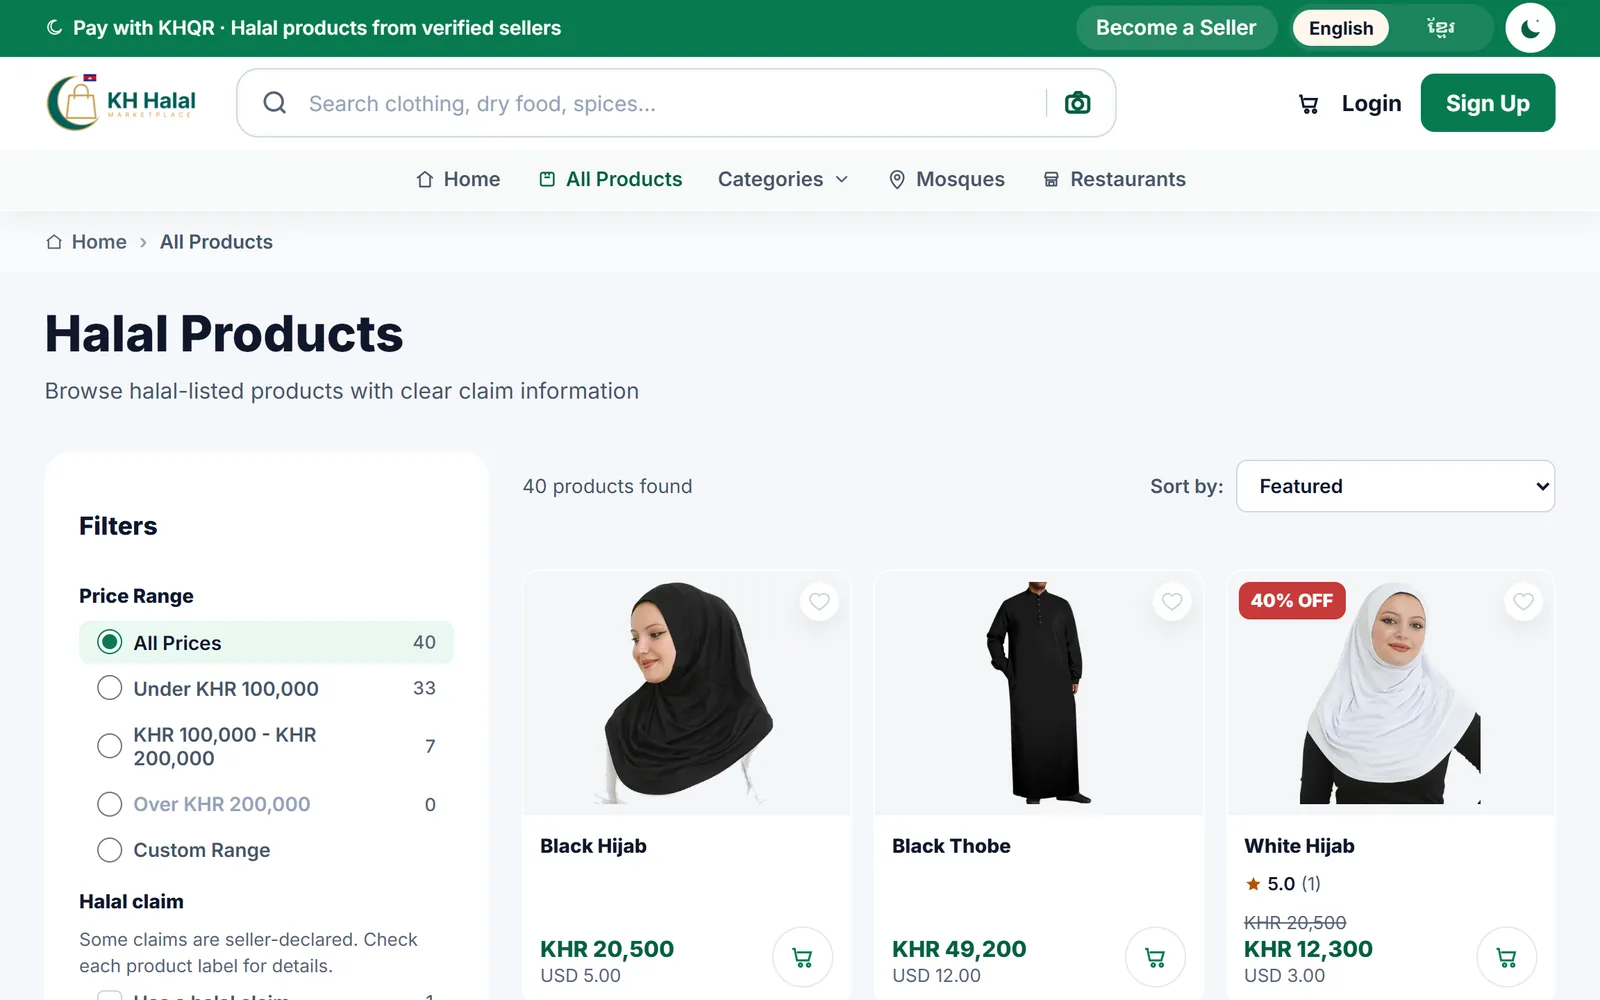
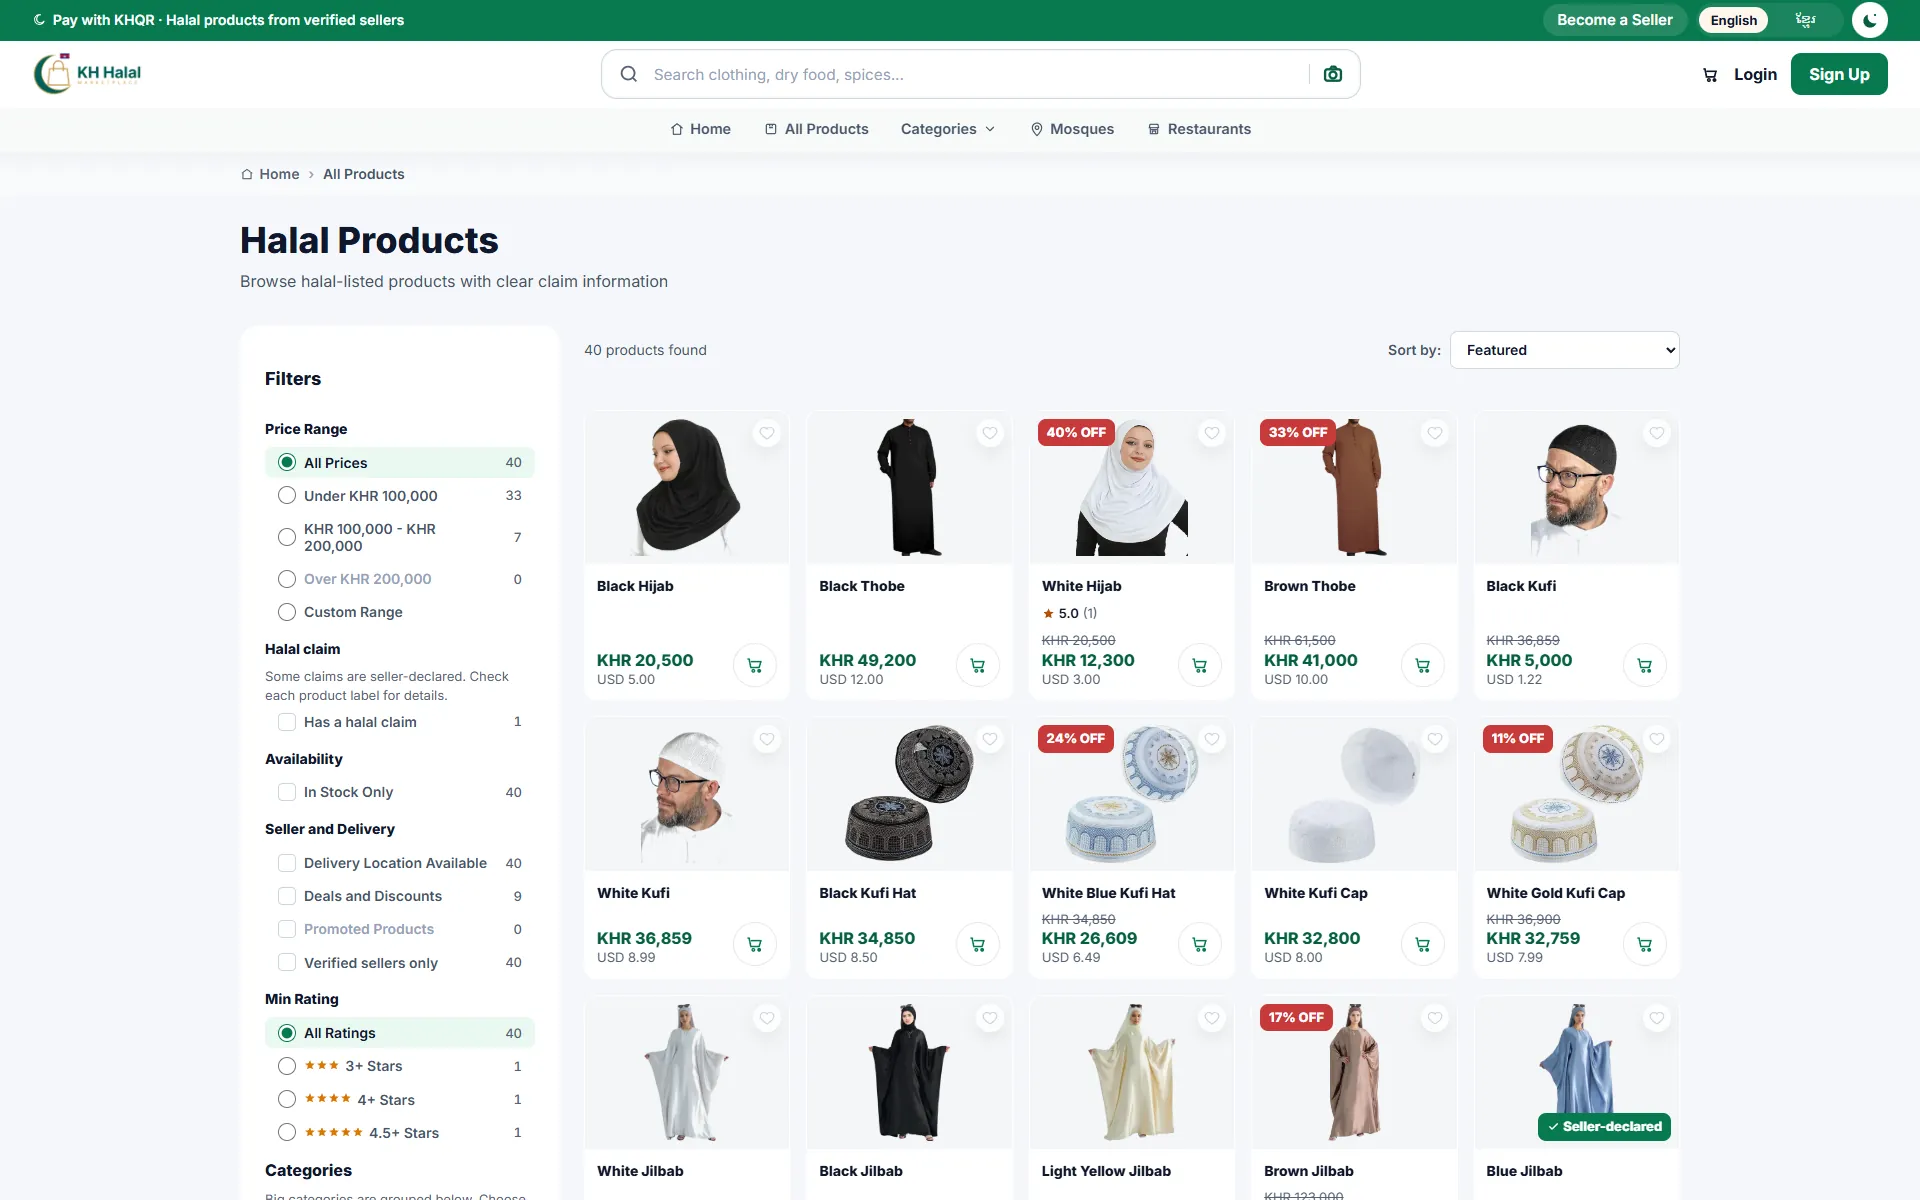
KH Halal card: real desktop-size screens that auto-play, no monitor drawing

diff --git a/index.html b/index.html
@@ -174,21 +174,21 @@
 
         <!-- PROJECT 1 (FEATURED, full width): KH Halal Marketplace — web app -->
         <article class="project-card project-card--featured reveal" id="kh-halal" aria-labelledby="p1-title">
-          <!-- One desktop monitor, 3 whole screens (1600×1000). initMonitor (js/main.js) shows each once, then stops on the first;
-               the buttons switch screens; "Full size" opens the one showing. Without JS: the first screen, and the link opens it.
-               Add a screen: one more <img> (aria-hidden="true") + one more button with the next data-screen number. -->
+          <!-- 3 whole desktop screens (1920×1200), one at a time. initDeck (js/main.js) changes the screen every 3s while it is on
+               screen (pauses on hover/focus); a screen button stops it. "Full size" opens the one showing. Without JS: the first
+               screen, and the link opens it. Add a screen: one more <img> (aria-hidden="true") + one more button (next data-screen). -->
           <div class="project-card__shots">
-            <figure class="monitor">
+            <figure class="deck">
               <a class="project-card__media project-card__media--web shot-link" href="assets/images/kh-halal-marketplace.webp">
                 <img class="is-on" src="assets/images/kh-halal-marketplace.webp"
-                     alt="KH Halal Marketplace home page: search with photo search, Halal Clothing and Dry Food banner, and links to shop or find a mosque"
-                     width="1600" height="1000" loading="lazy" decoding="async">
+                     alt="KH Halal Marketplace home page: search with photo search, Halal Clothing and Dry Food banner, and featured products with prices in riel and US dollars"
+                     width="1920" height="1200" loading="lazy" decoding="async">
                 <img aria-hidden="true" src="assets/images/kh-halal-product.webp"
                      alt="KH Halal product page: Black Hijab, price in riel and US dollars, the identity-verified seller, and Add to Cart"
-                     width="1600" height="1000" loading="lazy" decoding="async">
+                     width="1920" height="1200" loading="lazy" decoding="async">
                 <img aria-hidden="true" src="assets/images/kh-halal-products.webp"
                      alt="KH Halal All Products page: filters by price and halal claim, and product cards with prices in riel and US dollars"
-                     width="1600" height="1000" loading="lazy" decoding="async">
+                     width="1920" height="1200" loading="lazy" decoding="async">
               </a>
               <div class="screens" role="group" aria-label="KH Halal screens">
                 <button type="button" data-screen="0" aria-pressed="true">Home</button>

diff --git a/js/main.js b/js/main.js
@@ -183,10 +183,10 @@
 
   // Phone cards: each phone fades to its data-next screen and back, once, only while on screen.
   // Under 5s in all (WCAG 2.2.2), then stops. Hover or keyboard focus pauses it
-  // Desktop monitor: Home -> Product -> All products -> Home once (1.6s steps, under 5s: WCAG 2.2.2), then stop.
-  // Buttons pick a screen (and end the tour). Paused on hover/focus; never fades to a screen still loading.
-  function initMonitor() {
-    document.querySelectorAll('.monitor').forEach(function (mon) {
+  // Screen deck: next screen every 3s while it is on screen. Paused on hover/focus; never fades to a screen still
+  // loading. A screen button stops it for good (WCAG 2.2.2: a way to stop). Reduced motion: no auto change.
+  function initDeck() {
+    document.querySelectorAll('.deck').forEach(function (mon) {
       var link = mon.querySelector('.shot-link'), imgs = link.querySelectorAll('img');
       var btns = mon.querySelectorAll('[data-screen]'), step = 0, timer, io;
       function show(i) {
@@ -208,8 +208,7 @@
           var next = (step + 1) % imgs.length;
           if (mon.matches(':hover, :focus-within') || !imgs[next].naturalWidth) return;
           show(step = next);
-          if (!step) stop(); // back on the first screen: done
-        }, 1600);
+        }, 3000);
       }, { threshold: 0.5 });
       io.observe(link);
     });
@@ -362,7 +361,7 @@
     // Screenshot links: full size in the same pop-up (Ctrl/middle click still opens the file)
     function openShot(link, trigger) {
       var img = new Image();
-      img.src = link.href; // initMonitor points it at the screen showing
+      img.src = link.href; // initDeck points it at the screen showing
       img.alt = (link.querySelector('img.is-on') || link.querySelector('img')).alt;
       if (modalTitle) modalTitle.textContent = img.alt.split(':')[0];
       modal.classList.remove('video-modal--phone');
@@ -375,7 +374,7 @@
     document.addEventListener('click', function (e) {
       var btn = e.target.closest('.video-btn');
       if (btn) openVideo(btn);
-      var shot = e.target.closest('.shot-link, [data-shot]'); // [data-shot]: the "Full size" button under a monitor
+      var shot = e.target.closest('.shot-link, [data-shot]'); // [data-shot]: the "Full size" button under a deck
       if (shot && !e.ctrlKey && !e.metaKey && !e.shiftKey && !e.button) {
         e.preventDefault();
         openShot(shot.href ? shot : shot.closest('figure').querySelector('.shot-link'), shot);
@@ -526,7 +525,7 @@
   initReveal();
   initSpotlight();
   initPhoneScreens();
-  initMonitor();
+  initDeck();
   initCountUp();
   initCopy();
   initVideo();

diff --git a/css/style.css b/css/style.css
@@ -503,17 +503,13 @@ main { counter-reset: section; }
 /* Web screenshot frame */
 .project-card__shots { margin: var(--card-pad) var(--card-pad) 0; }
 a.project-card__media { display: block; cursor: zoom-in; }
-/* Desktop monitor: content-box keeps the screen 16:10 */
-.monitor { display: flex; flex-direction: column; --b: clamp(6px, 1vw, 10px); --st: color-mix(in srgb, var(--text) 20%, var(--surface)); }
-.monitor > a { box-sizing: content-box; border: var(--b) solid #0C0A09; border-bottom-width: calc(var(--b) * 2.4); box-shadow: 0 0 0 1px var(--st); } /* taste-skill-ignore */
-.monitor::after { content: ""; display: block; width: 26%; height: calc(var(--b) * 4); margin: 1px auto 0; background: linear-gradient(var(--st) 0 0) top / 34% 75% no-repeat, linear-gradient(var(--st) 0 0) bottom / 100% 25% no-repeat; border-radius: 0 0 4px 4px; } /* taste-skill-ignore: two flat blocks (neck, base), not a gradient */
-/* .is-on shows (initMonitor) */
-.monitor img + img { position: absolute; inset: 0; }
-.monitor img { opacity: 0; transition: opacity var(--dur-base) var(--ease-out), transform var(--dur-base) var(--ease-out); }
-.monitor .is-on { opacity: 1; }
+/* .is-on shows (initDeck) */
+.deck img + img { position: absolute; inset: 0; }
+.deck img { opacity: 0; transition: opacity var(--dur-base) var(--ease-out), transform var(--dur-base) var(--ease-out); }
+.deck .is-on { opacity: 1; }
 .shot-link:focus-visible { outline-offset: 4px; border-radius: var(--radius); }
 /* Screen buttons (JS) */
-.screens { order: 1; display: none; flex-wrap: wrap; justify-content: center; gap: 4px; margin-top: var(--s-3); }
+.screens { display: none; flex-wrap: wrap; justify-content: center; gap: 4px; margin-top: var(--s-3); }
 .js .screens { display: flex; }
 .screens button { display: inline-flex; align-items: center; gap: 6px; min-height: 44px; padding: 0 14px; border: 0; border-radius: 99px; background: none; color: var(--muted); font: 500 var(--fs-small) var(--font-sans); cursor: pointer; transition: color var(--dur-fast); }
 .screens button:hover, .screens [aria-pressed=true] { color: var(--text); }

diff --git a/CLAUDE.md b/CLAUDE.md
@@ -658,3 +658,11 @@ Honest review of the whole-screens version (7/10) listed 5 problems; all fixed:
 - Sizes: committed CSS 35,994 / 36,000 (working file 36,037 with the other session's uncommitted Contact work), JS 25,184 / 27,000.
 - Tests (headless Edge, CDP): tour 0 -> 1 at 1.63s -> 2 at 3.23s -> 0 at 4.86s, then no change (7.5s watched); aria-hidden / aria-pressed / href in step; button -> screen 2, stays after 3.5s; Full size opens the screen showing (1600x1000, right title), Esc closes, focus back on Full size; screen click opens the screen showing; hover 4s: no change, after leaving it moves on; reduced motion: no tour, buttons work; 390: buttons 44px, no sideways scroll; no JS: row hidden, opacities 1,0,0, link to Home; screen ratio 1.600 at 1440/1024/390; dark + light screenshots; no console errors; check.mjs all PASS; lint 0/0.
 - Committed with a separate index: the other session's uncommitted Contact edits in the same files are NOT in this commit.
+
+### Update 2026-11-13: KH Halal screens: real desktop size, auto-play loop, no monitor drawing (owner)
+- Owner: the screens should change by themselves, show the size of a real desktop, and lose the drawn monitor.
+- **Screens re-shot at 1920x1200** (16:10, 1x, live site, guest, GET only): `kh-halal-marketplace.webp` (home: banner + featured products), `kh-halal-product.webp`, `kh-halal-products.webp` (70-110 KB each, lazy). The old ones were 1152x720 windows, so the page looked zoomed in. `index.html` width/height 1920x1200; home alt now mentions featured products.
+- **Monitor drawing removed** (bezel, chin, stand CSS). `figure.monitor` -> `figure.deck`; plain 16:10 frame (1px border, 12px radius) like before.
+- **Auto-play:** `initMonitor` -> `initDeck` (`js/main.js`): next screen every 3s, looping, only while the deck is half on screen; pauses on hover/focus; never fades to a screen that has not loaded; a screen button stops it for good (WCAG 2.2.2 needs a way to stop moving content that runs longer than 5s); reduced motion: no auto change.
+- Tests (headless Edge, CDP): 0 -> 1 at 3.06s -> 2 at 6.12s -> 0 at 9.05s (loops); button stops it; Full size opens the screen showing (1920 wide); focus back; hover pauses; reduced motion: no change, buttons work; 390: 44px buttons, no sideways scroll; no JS: first screen, buttons hidden; no console errors; check.mjs all PASS; lint 0/0. Committed CSS ~35.4 KB / 36 KB.
+- Committed with a separate index: the other session's uncommitted Contact edits in the same files are NOT in this commit.
